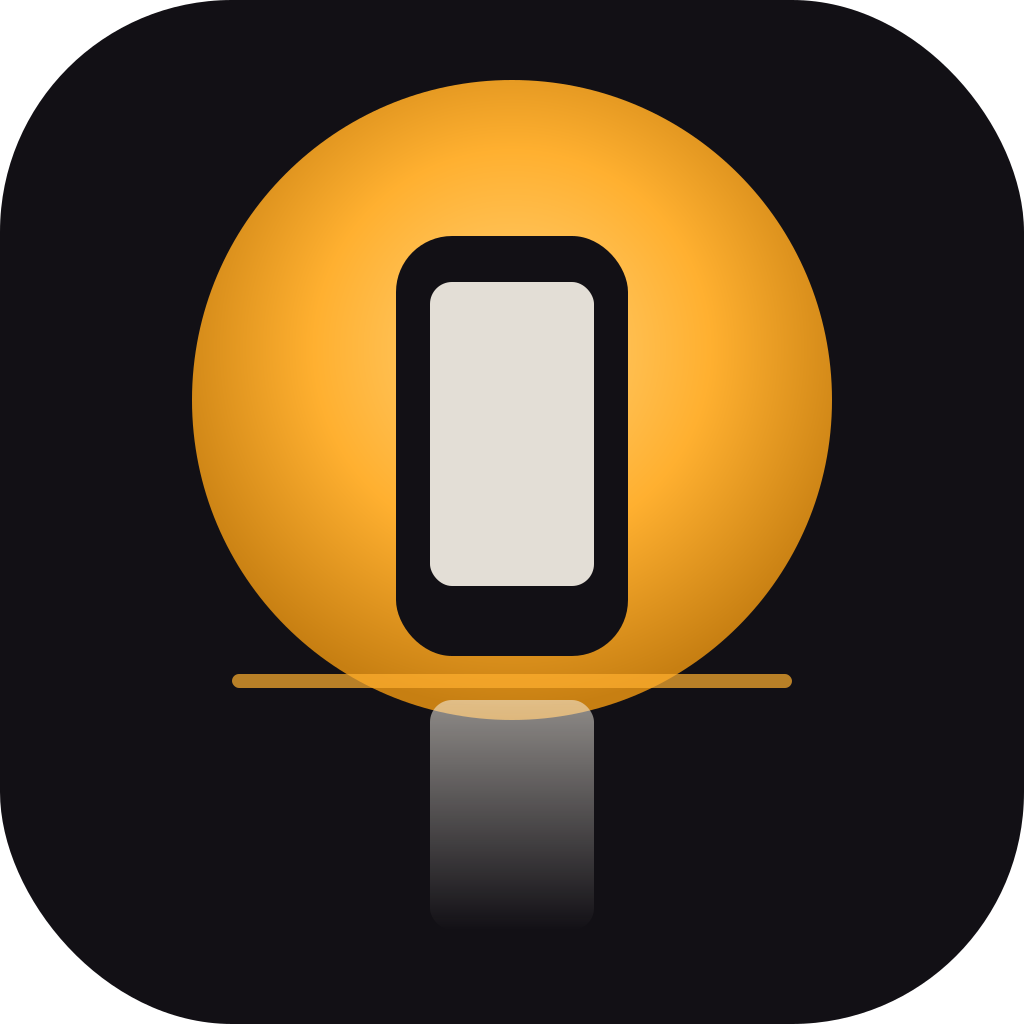
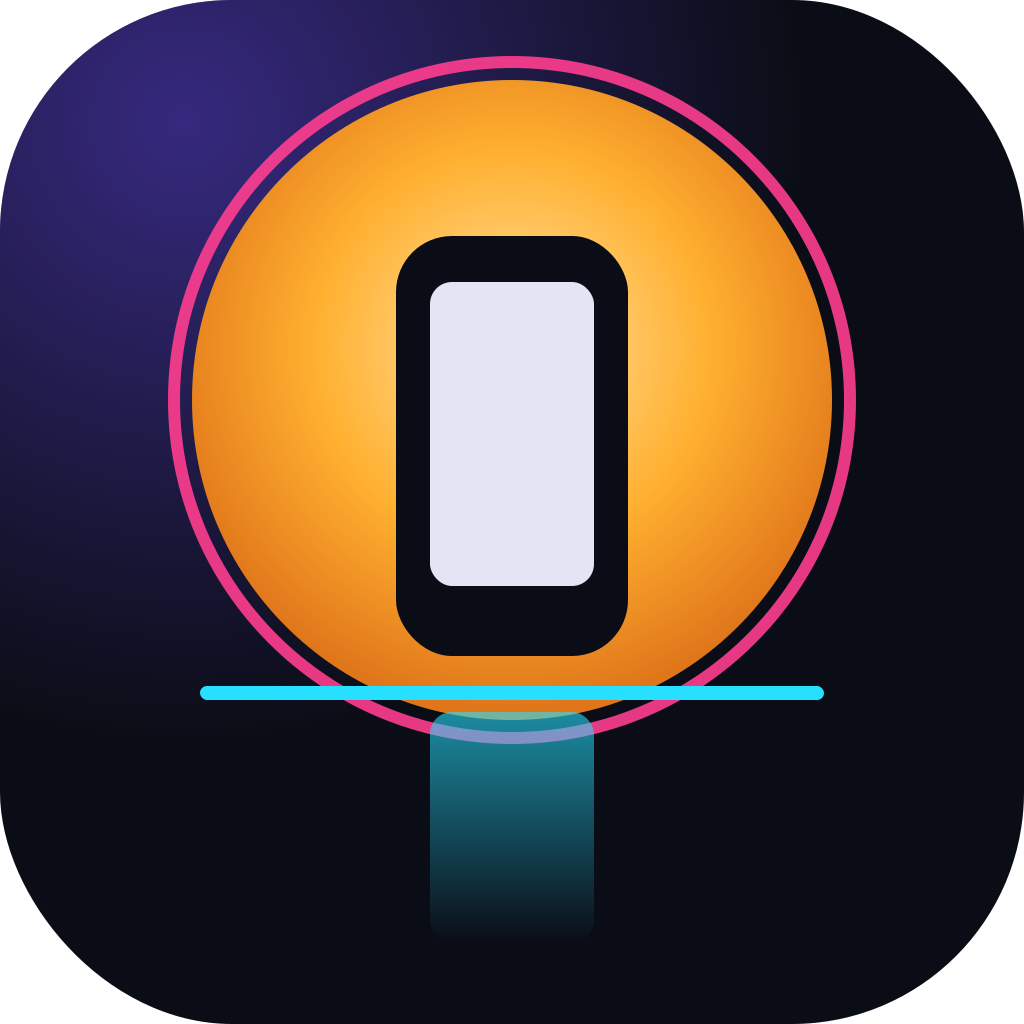
Stagecraft × neon: night Stage with haze, rim and floor; signal accents
The Stage's black becomes night (a blue-black) with a violet haze in the
corner, a magenta rim on the pool of light and a cyan perspective floor
that fades toward the horizon (StageBackdrop). Live and connecting dots
glow. Presenter-only surfaces go a notch louder: signal cyan for links,
addresses and section labels, night surfaces in dark mode, mono labels.
The Android header is a piece of the Stage now (night, lamp wordmark, a
signal hairline). New app icon with the rim and floor line. Tokens and
README in the design system updated to match.

Claude-Session: https://claude.ai/code/session_01NUiG3n6bcDBxhw6xRWs3tP

diff --git a/Sources/MirrorWall/Brand.swift b/Sources/MirrorWall/Brand.swift
@@ -17,47 +17,68 @@ enum Brand {
 
     /// The spotlight: primary actions, the live device's pool of light, focus. Ink goes on it, never white.
     static let lamp = Color(hex: 0xFFB030)
-    /// The lighting gel: live and recording states only.
-    static let gel = Color(hex: 0xFF4F8B)
+    /// The lighting gel: live and recording states only. Glows.
+    static let gel = Color(hex: 0xFF3D8F)
+    /// Signal: links, addresses, the QR chip, "connecting". The cyan in the floor grid.
+    static let signal = Color(hex: 0x27E0FF)
+    /// Haze: the violet glow in the Stage's corners. Never a fill, never text.
+    static let haze = Color(hex: 0x6B4CFF)
     /// Alerts and destructive actions: lost connection, failed slot.
     static let hot = Color(hex: 0xE5484D)
 
     // MARK: The Stage (always dark)
 
-    static let stage = Color(hex: 0x121015)
-    static let stageRaised = Color(hex: 0x1B191F)
-    static let stageLine = Color(hex: 0x2D2A33)
-    static let stageInk = Color(hex: 0xF5F0E6)
-    static let stageInkMuted = Color(hex: 0xB8B2A7)
-    static let nsStage = NSColor(srgbRed: 0x12 / 255, green: 0x10 / 255, blue: 0x15 / 255, alpha: 1)
+    /// Night: a blue-black, not black, so the Stage has depth.
+    static let stage = Color(hex: 0x0B0D16)
+    static let stageRaised = Color(hex: 0x141829)
+    static let stageLine = Color(hex: 0x262B45)
+    static let stageInk = Color(hex: 0xEEF0FF)
+    static let stageInkMuted = Color(hex: 0xA9AFD6)
+    static let nsStage = NSColor(srgbRed: 0x0B / 255, green: 0x0D / 255, blue: 0x16 / 255, alpha: 1)
 
     /// The pool of lamp light the devices stand in. Drawn under the phones, over `stage`.
     static func stageLight(center: UnitPoint = .init(x: 0.5, y: 0.45)) -> RadialGradient {
         RadialGradient(
-            colors: [lamp.opacity(0.22), lamp.opacity(0.06), lamp.opacity(0)],
+            colors: [lamp.opacity(0.26), lamp.opacity(0.07), lamp.opacity(0)],
             center: center, startRadius: 0, endRadius: 520
         )
     }
 
     // MARK: Surfaces and ink (follow the system appearance)
 
-    static let surface = adaptive(0xF5F0E6, 0x121015)
-    static let surfaceRaised = adaptive(0xFFFFFF, 0x1B191F)
-    static let surfaceSunken = adaptive(0xECE6D9, 0x0C0B0E)
-    static let ink = adaptive(0x121015, 0xF5F0E6)
-    static let inkMuted = adaptive(0x5C5763, 0xB8B2A7)
-    static let inkFaint = adaptive(0x8E889A, 0x6A6472)
-    static let line = adaptive(0xD9D2C4, 0x2D2A33)
+    static let surface = adaptive(0xF5F0E6, 0x0B0D16)
+    static let surfaceRaised = adaptive(0xFFFFFF, 0x141829)
+    static let surfaceSunken = adaptive(0xECE6D9, 0x06070C)
+    static let ink = adaptive(0x10121C, 0xEEF0FF)
+    static let inkMuted = adaptive(0x5A5B6E, 0xA9AFD6)
+    static let inkFaint = adaptive(0x8E8FA3, 0x6F77A8)
+    static let line = adaptive(0xD9D2C4, 0x262B45)
     /// Lamp as text or a link on a surface (lamp itself fails contrast on cream).
     static let lampText = adaptive(0x8A5A00, 0xFFD27A)
     /// A tint of lamp for a selected row or chip.
     static let lampWash = adaptive(0xFFF1D6, 0x3A2A0C)
     static let gelText = adaptive(0xB3215A, 0xFF8DB4)
+    /// Signal as text or a link on a surface.
+    static let signalText = adaptive(0x0A7F94, 0x27E0FF)
     static let hotText = adaptive(0xB52A2F, 0xFF8A8E)
     /// The dot for a slot that is waiting, disconnected or stopped.
-    static let standby = adaptive(0x8E889A, 0x6A6472)
+    static let standby = adaptive(0x8E8FA3, 0x4A5078)
 
-    static var nsSurface: NSColor { nsAdaptive(0xF5F0E6, 0x121015) }
+    static var nsSurface: NSColor { nsAdaptive(0xF5F0E6, 0x0B0D16) }
+
+    /// A soft glow in a state's own color; live and recording glow, nothing else does.
+    static func glow(_ color: Color, on: Bool = true, radius: CGFloat = 5) -> some ViewModifier {
+        Glow(color: color, on: on, radius: radius)
+    }
+
+    private struct Glow: ViewModifier {
+        let color: Color
+        let on: Bool
+        let radius: CGFloat
+        func body(content: Content) -> some View {
+            content.shadow(color: on ? color.opacity(0.85) : .clear, radius: radius)
+        }
+    }
 
     /// A color that resolves on the window's appearance, so the Wall and Settings follow the system.
     static func adaptive(_ light: UInt32, _ dark: UInt32) -> Color {
@@ -75,10 +96,21 @@ enum Brand {
     static func dot(for state: Slot.State) -> Color {
         switch state {
         case .live: return gel
-        case .connecting, .paused: return lamp
+        case .connecting: return signal
+        case .paused: return lamp
         case .waiting, .stopped: return standby
         case .disconnected, .failed: return hot
         }
+    }
+
+    /// Whether a state's dot glows: only the ones that mean "something is happening right now".
+    static func glows(_ state: Slot.State) -> Bool {
+        state == .live || state == .connecting
+    }
+
+    /// Monospaced, for addresses, ports and codes.
+    static func mono(_ size: CGFloat, _ weight: Font.Weight = .regular) -> Font {
+        .system(size: size, weight: weight, design: .monospaced)
     }
 
     // MARK: Type
@@ -175,6 +207,67 @@ extension NSColor {
             blue: CGFloat(hex & 0xFF) / 255,
             alpha: 1
         )
+    }
+}
+
+/// The Stage's backdrop: night, a violet haze in the top-left and a faint magenta one bottom-right,
+/// a cyan perspective floor that fades toward the horizon, and the pool of lamp light with its
+/// magenta rim where the devices stand. The customer sees this behind the phones, so every part
+/// of it is quiet: no motion, nothing brighter than the live dot.
+struct StageBackdrop: View {
+    var body: some View {
+        GeometryReader { proxy in
+            let size = proxy.size
+            ZStack {
+                Brand.stage
+                RadialGradient(colors: [Brand.haze.opacity(0.28), Brand.haze.opacity(0)], center: .init(x: 0.08, y: 0.05), startRadius: 0, endRadius: size.width * 0.42)
+                RadialGradient(colors: [Brand.gel.opacity(0.14), Brand.gel.opacity(0)], center: .init(x: 1.0, y: 1.0), startRadius: 0, endRadius: size.width * 0.4)
+                StageFloor()
+                    .frame(height: size.height * 0.3)
+                    .frame(maxHeight: .infinity, alignment: .bottom)
+                Brand.stageLight()
+                Circle()
+                    .strokeBorder(Brand.gel.opacity(0.5), lineWidth: 1)
+                    .frame(width: size.height * 0.62, height: size.height * 0.62)
+                    .shadow(color: Brand.gel.opacity(0.35), radius: 14)
+                    .position(x: size.width * 0.5, y: size.height * 0.45)
+            }
+        }
+        .allowsHitTesting(false)
+        .accessibilityHidden(true)
+    }
+}
+
+/// The cyan perspective grid under the devices: horizontals that bunch toward the horizon and
+/// lines that fan out from a vanishing point, fading in from the top edge.
+struct StageFloor: View {
+    var body: some View {
+        Canvas { context, size in
+            let horizon = CGPoint(x: size.width / 2, y: size.height * 0.2)
+            var grid = Path()
+            // Horizontals, closer together near the horizon.
+            for step in 0..<7 {
+                let t = pow(Double(step) / 6, 1.7)
+                let y = horizon.y + (size.height - horizon.y) * t
+                grid.move(to: CGPoint(x: 0, y: y))
+                grid.addLine(to: CGPoint(x: size.width, y: y))
+            }
+            // Fan lines from the vanishing point to the bottom edge.
+            for k in -5...5 {
+                let x = size.width / 2 + CGFloat(k) * size.width * 0.22
+                grid.move(to: horizon)
+                grid.addLine(to: CGPoint(x: x, y: size.height))
+            }
+            let shading = GraphicsContext.Shading.linearGradient(
+                Gradient(stops: [
+                    .init(color: Brand.signal.opacity(0), location: 0),
+                    .init(color: Brand.signal.opacity(0.26), location: 0.4),
+                    .init(color: Brand.signal.opacity(0.05), location: 1),
+                ]),
+                startPoint: CGPoint(x: 0, y: 0), endPoint: CGPoint(x: 0, y: size.height)
+            )
+            context.stroke(grid, with: shading, lineWidth: 1)
+        }
     }
 }
 

diff --git a/android/app/src/main/java/com/justfortonks/mirrorwall/cast/MainActivity.kt b/android/app/src/main/java/com/justfortonks/mirrorwall/cast/MainActivity.kt
@@ -403,7 +403,7 @@ class MainActivity : Activity() {
                 addView(Brand.body(this@MainActivity, slot.name, 16f).apply { typeface = Brand.semibold(this@MainActivity) })
                 addView(Brand.body(this@MainActivity, "Tap to share this screen", 13f, Brand.inkMuted(this@MainActivity)))
             }, LinearLayout.LayoutParams(0, WRAP_CONTENT, 1f))
-            addView(Brand.body(this@MainActivity, "›", 24f, Brand.lampText(this@MainActivity)))
+            addView(Brand.body(this@MainActivity, "›", 24f, Brand.signalText(this@MainActivity)))
         }
     }
 
@@ -423,8 +423,8 @@ class MainActivity : Activity() {
     private fun buildViews() {
         val pad = Brand.dp(this, 16f)
 
-        // Header: the lamp, with ink on it; the wordmark in Fraunces as the eyebrow.
-        val header = FrameLayout(this).apply { setBackgroundColor(Brand.lamp) }
+        // Header: a piece of the Stage. Night with the wordmark in Fraunces lamp, a signal hairline under it.
+        val header = FrameLayout(this).apply { setBackgroundColor(Brand.night) }
         val headerColumn = LinearLayout(this).apply {
             orientation = LinearLayout.VERTICAL
             setPadding(pad + pad / 4, pad, pad + pad / 4, pad + pad / 2)
@@ -433,24 +433,25 @@ class MainActivity : Activity() {
             text = "Mirror Wall Cast"
             typeface = Brand.display(this@MainActivity)
             textSize = 15f
-            setTextColor(Brand.onLamp)
+            setTextColor(Brand.lamp)
         })
         headline = TextView(this).apply {
             typeface = Brand.bold(this@MainActivity)
             textSize = 28f
-            setTextColor(Brand.onLamp)
+            setTextColor(Brand.onNight)
             setPadding(0, pad / 4, 0, 0)
         }
         headerColumn.addView(headline)
-        status = Brand.body(this, "", 15f, Color.argb(200, 18, 16, 21))
+        status = Brand.body(this, "", 15f, Brand.onNightMuted)
         headerColumn.addView(status)
         stopButton = Button(this).apply {
             text = "Stop sharing"
             setOnClickListener { stopSharing() }
-            Brand.pill(this, Brand.onLamp, Brand.lamp)
+            Brand.pill(this)
         }
         headerColumn.addView(stopButton, LinearLayout.LayoutParams(WRAP_CONTENT, WRAP_CONTENT).apply { topMargin = pad })
         header.addView(headerColumn, FrameLayout.LayoutParams(MATCH_PARENT, WRAP_CONTENT))
+        header.addView(View(this).apply { setBackgroundColor(Brand.signal) }, FrameLayout.LayoutParams(MATCH_PARENT, Brand.dp(this, 1f), Gravity.BOTTOM))
 
         val column = LinearLayout(this).apply {
             orientation = LinearLayout.VERTICAL
@@ -572,18 +573,17 @@ class MainActivity : Activity() {
         }
         setContentView(root)
         @Suppress("DEPRECATION")
-        window.statusBarColor = Brand.lamp
+        window.statusBarColor = Brand.night
         if (Build.VERSION.SDK_INT >= 30) {
-            // Dark status bar icons on the lamp header; navigation icons follow the page's appearance.
-            val light = WindowInsetsController.APPEARANCE_LIGHT_STATUS_BARS or
-                (if (Brand.isDark(this)) 0 else WindowInsetsController.APPEARANCE_LIGHT_NAVIGATION_BARS)
+            // Light status bar icons on the night header; navigation icons follow the page's appearance.
+            val light = if (Brand.isDark(this)) 0 else WindowInsetsController.APPEARANCE_LIGHT_NAVIGATION_BARS
             window.insetsController?.setSystemBarsAppearance(
                 light,
                 WindowInsetsController.APPEARANCE_LIGHT_STATUS_BARS or WindowInsetsController.APPEARANCE_LIGHT_NAVIGATION_BARS,
             )
         } else {
             @Suppress("DEPRECATION")
-            window.decorView.systemUiVisibility = window.decorView.systemUiVisibility or View.SYSTEM_UI_FLAG_LIGHT_STATUS_BAR
+            window.decorView.systemUiVisibility = window.decorView.systemUiVisibility and View.SYSTEM_UI_FLAG_LIGHT_STATUS_BAR.inv()
         }
         showSlots()
     }

diff --git a/Sources/MirrorWall/StageWindow.swift b/Sources/MirrorWall/StageWindow.swift
@@ -233,9 +233,7 @@ struct StageView: View {
                 : proxy.size.height - barHeight - 10
             ZStack(alignment: .topLeading) {
                 ZStack(alignment: .topTrailing) {
-                    Brand.stage
-                    // The pool of light the devices stand in.
-                    Brand.stageLight()
+                    StageBackdrop()
                 }
                 .frame(width: proxy.size.width, height: proxy.size.height)
                 if phones.isEmpty {
@@ -376,7 +374,7 @@ struct StageControls: View {
         .buttonStyle(.plain)
         .padding(5)
         .background(Brand.stageRaised.opacity(0.96), in: RoundedRectangle(cornerRadius: 13, style: .continuous))
-        .overlay(RoundedRectangle(cornerRadius: 13, style: .continuous).strokeBorder(.white.opacity(0.12)))
+        .overlay(RoundedRectangle(cornerRadius: 13, style: .continuous).strokeBorder(Brand.stageLine))
         .padding(.horizontal, 8)
         .frame(maxWidth: .infinity)
     }
@@ -461,7 +459,7 @@ private struct StageSlotChip: View {
             StageSlotActions(slot: slot, store: store)
         } label: {
             HStack(spacing: 6) {
-                Circle().fill(stageDotColor(slot.state)).frame(width: 8, height: 8)
+                Circle().fill(stageDotColor(slot.state)).frame(width: 8, height: 8).modifier(Brand.glow(stageDotColor(slot.state), on: Brand.glows(slot.state)))
                 Text(slot.displayName).lineLimit(1).frame(maxWidth: 170)
                 if reconnecting {
                     Text("reconnecting").font(Brand.font(11)).opacity(0.75)
@@ -478,6 +476,7 @@ private struct StageSlotChip: View {
                         .padding(.horizontal, 5)
                         .padding(.vertical, 1)
                         .background(Capsule().fill(Brand.gel))
+                        .modifier(Brand.glow(Brand.gel, radius: 6))
                 }
             }
             .font(Brand.font(12, .semibold))
@@ -542,7 +541,7 @@ private struct WaitingPills: View {
             HStack(spacing: 8) {
                 ForEach(slots) { slot in
                     HStack(spacing: 7) {
-                        Circle().fill(stageDotColor(slot.state)).frame(width: 7, height: 7)
+                        Circle().fill(stageDotColor(slot.state)).frame(width: 7, height: 7).modifier(Brand.glow(stageDotColor(slot.state), on: Brand.glows(slot.state)))
                         Text(slot.name).font(Brand.font(12, .semibold))
                         Text(stageStatus(slot.state)).font(Brand.font(11)).opacity(0.7)
                     }
@@ -584,7 +583,7 @@ private struct StageEmptyState: View {
                 VStack(alignment: .leading, spacing: 10) {
                     ForEach(slots) { slot in
                         HStack(alignment: .firstTextBaseline, spacing: 10) {
-                            Circle().fill(stageDotColor(slot.state)).frame(width: 8, height: 8)
+                            Circle().fill(stageDotColor(slot.state)).frame(width: 8, height: 8).modifier(Brand.glow(stageDotColor(slot.state), on: Brand.glows(slot.state)))
                             VStack(alignment: .leading, spacing: 2) {
                                 Text(slot.name).font(Brand.font(14, .semibold))
                                 Text("iPhone: Control Center › Screen Mirroring › “\(slot.name)”   ·   Android: Mirror Wall Cast, or scan the QR code (⌘K)")
@@ -623,6 +622,7 @@ private struct StageCaption: View {
                 Circle()
                     .fill(Brand.gel)
                     .frame(width: height * 0.16, height: height * 0.16)
+                    .modifier(Brand.glow(Brand.gel))
                 Text(phones.contains(where: { $0.isFrozen || $0.state != .live || $0.isQuiet }) ? "Demo" : "Live demo")
                     .font(Brand.font(height * 0.36, .bold))
                 Text("· \(names)")

diff --git a/android/app/src/main/java/com/justfortonks/mirrorwall/cast/Brand.kt b/android/app/src/main/java/com/justfortonks/mirrorwall/cast/Brand.kt
@@ -20,7 +20,13 @@ import android.widget.TextView
 object Brand {
     // Identity, the same in both appearances
     const val lamp = 0xFFFFB030.toInt()
-    const val gel = 0xFFFF4F8B.toInt()
+    const val gel = 0xFFFF3D8F.toInt()
+    /** Signal: links, addresses, section labels. */
+    const val signal = 0xFF27E0FF.toInt()
+    /** Night: the header, both appearances (it's a piece of the Stage). */
+    const val night = 0xFF0B0D16.toInt()
+    const val onNight = 0xFFEEF0FF.toInt()
+    const val onNightMuted = 0xFFA9AFD6.toInt()
     const val hot = 0xFFE5484D.toInt()
     /** Ink on lamp (the only text color that reads on it). */
     const val onLamp = 0xFF121015.toInt()
@@ -34,6 +40,7 @@ object Brand {
     fun inkFaint(context: Context) = context.getColor(R.color.ink_faint)
     fun line(context: Context) = context.getColor(R.color.line)
     fun lampText(context: Context) = context.getColor(R.color.lamp_text)
+    fun signalText(context: Context) = context.getColor(R.color.signal_text)
     fun standby(context: Context) = context.getColor(R.color.standby)
     fun isDark(context: Context) =
         context.resources.configuration.uiMode and android.content.res.Configuration.UI_MODE_NIGHT_MASK ==
@@ -114,8 +121,9 @@ object Brand {
         this.text = text.uppercase()
         typeface = bold(context)
         textSize = 11f
-        letterSpacing = 0.08f
-        setTextColor(inkMuted(context))
+        letterSpacing = 0.1f
+        typeface = Typeface.MONOSPACE
+        setTextColor(signalText(context))
         val pad = dp(context, 16f)
         setPadding(0, pad + pad / 2, 0, pad / 2)
     }

diff --git a/Sources/MirrorWall/ConnectCodePanel.swift b/Sources/MirrorWall/ConnectCodePanel.swift
@@ -137,12 +137,13 @@ struct ConnectCodeView: View {
                         HStack {
                             Text(address.label).font(Brand.font(12)).foregroundStyle(.secondary)
                             Spacer()
-                            Text("\(address.address):\(link.port)").font(.system(size: 12, design: .monospaced))
+                            Text("\(address.address):\(link.port)").font(Brand.mono(12)).foregroundStyle(Brand.signalText)
                         }
                     }
                 }
                 .padding(10)
-                .background(RoundedRectangle(cornerRadius: 8, style: .continuous).fill(Color(nsColor: .quaternaryLabelColor).opacity(0.3)))
+                .background(RoundedRectangle(cornerRadius: 8, style: .continuous).fill(Brand.surfaceSunken))
+                .overlay(RoundedRectangle(cornerRadius: 8, style: .continuous).strokeBorder(Brand.signal.opacity(0.35)))
                 Text("The phone tries each address, Wi-Fi first. A customer's guest Wi-Fi usually keeps devices apart; a VPN both share (Tailscale) still works.")
                     .font(Brand.font(11))
                     .multilineTextAlignment(.center)

diff --git a/Tests/MirrorWallTests/VisualReviewTests.swift b/Tests/MirrorWallTests/VisualReviewTests.swift
@@ -53,5 +53,14 @@ final class VisualReviewTests: XCTestCase {
             .environmentObject(store).padding(24).background(Brand.surface)
             .foregroundStyle(Brand.ink)
         try save(tile, width: 360, height: 660, name: "wall")
+        // The Stage's backdrop on its own, with the wordmark, to check the light, haze and floor.
+        let backdrop = ZStack {
+            StageBackdrop()
+            VStack(spacing: 12) {
+                Text("Demo starting shortly").font(Brand.display(30, .medium)).foregroundStyle(Brand.stageInk)
+                Wordmark(height: 20)
+            }
+        }
+        try save(backdrop, width: 1100, height: 620, name: "stage-backdrop")
     }
 }

diff --git a/Sources/MirrorWall/Views.swift b/Sources/MirrorWall/Views.swift
@@ -280,6 +280,7 @@ struct SlotTile: View {
                 Circle()
                     .fill(statusColor)
                     .frame(width: 8, height: 8)
+                    .modifier(Brand.glow(statusColor, on: Brand.glows(slot.state)))
                 Text(slot.name)
                     .font(Brand.font(14, .semibold))
                     .lineLimit(1)
